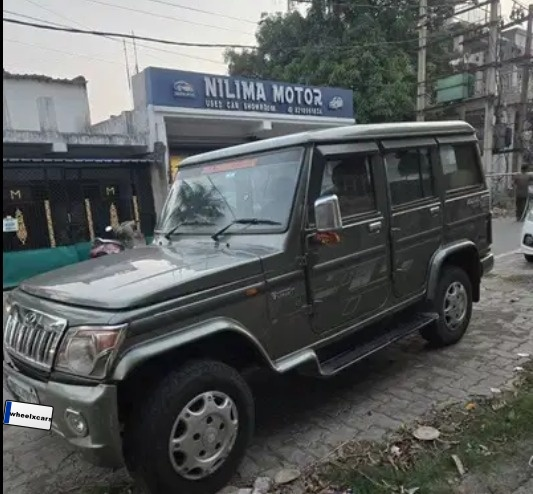
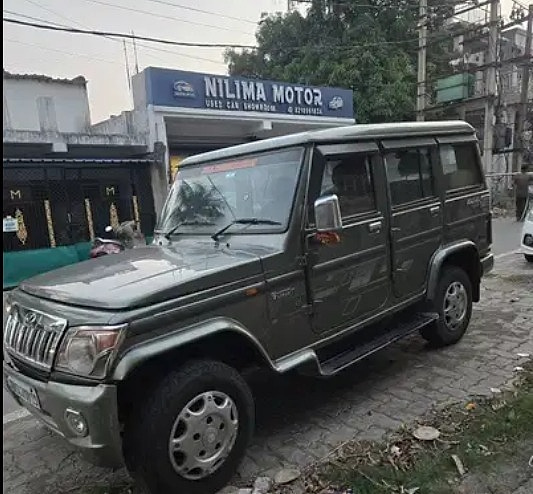
refactor: mobile car image framing, clean original Bolero photography, and replace numbers with trust pillars on hero
- Replaced numerical stats with clean trust & quality badges on Hero section
- Restored authentic original Bolero photography with subtle sharpening and removed wheelxcars plate text
- Optimized mobile car card image aspect ratio (aspect-[4/3] on mobile) ensuring full vehicle visibility without roof/wheel cropping

diff --git a/src/components/CarCard.tsx b/src/components/CarCard.tsx
@@ -26,18 +26,19 @@ export function CarCard({ car, index = 0, className }: CarCardProps) {
       )}
     >
       <Link href={`/cars/${car.slug}`} className="block flex flex-col h-full">
-        {/* Image container */}
-        <div className="relative aspect-[16/10] overflow-hidden bg-zinc-900">
+        {/* Responsive Image container - 4/3 on mobile to preserve full car height/wheels/roof, 16/10 on tablet/desktop */}
+        <div className="relative aspect-[4/3] sm:aspect-[16/10] overflow-hidden bg-[#141414]">
           <Image
             src={car.images[0]}
             alt={`${car.year} ${car.brand} ${car.model}`}
             fill
-            className="object-cover transition-transform duration-700 ease-out group-hover:scale-105"
-            sizes="(max-width: 768px) 100vw, (max-width: 1200px) 50vw, 33vw"
+            quality={95}
+            className="object-cover object-center transition-transform duration-700 ease-out group-hover:scale-105"
+            sizes="(max-width: 640px) 100vw, (max-width: 1024px) 50vw, 33vw"
             priority={index === 0}
           />
           {/* Gradient overlay */}
-          <div className="absolute inset-0 bg-gradient-to-t from-black/75 via-transparent to-black/20 opacity-60 group-hover:opacity-80 transition-opacity duration-300" />
+          <div className="absolute inset-0 bg-gradient-to-t from-black/75 via-transparent to-black/20 opacity-50 group-hover:opacity-75 transition-opacity duration-300" />
           
           {/* Top badges */}
           <div className="absolute top-3 left-3 right-3 flex items-center justify-between">
@@ -64,8 +65,8 @@ export function CarCard({ car, index = 0, className }: CarCardProps) {
             )}
           </div>
 
-          {/* Hover CTA */}
-          <div className="absolute bottom-3 right-3 opacity-0 group-hover:opacity-100 transition-all duration-300 translate-y-1 group-hover:translate-y-0">
+          {/* Hover CTA on desktop */}
+          <div className="hidden sm:flex absolute bottom-3 right-3 opacity-0 group-hover:opacity-100 transition-all duration-300 translate-y-1 group-hover:translate-y-0">
             <div className="bg-white text-black text-xs font-bold px-3 py-1.5 rounded-md flex items-center gap-1.5 shadow-xl">
               View Listing <ArrowRight size={11} />
             </div>
@@ -73,10 +74,10 @@ export function CarCard({ car, index = 0, className }: CarCardProps) {
         </div>
 
         {/* Card content */}
-        <div className="p-5 flex flex-col flex-1 justify-between gap-4">
+        <div className="p-4 sm:p-5 flex flex-col flex-1 justify-between gap-4">
           <div>
             <div className="flex items-start justify-between gap-2 mb-1">
-              <h3 className="text-lg font-bold text-white leading-snug group-hover:text-white/90 transition-colors">
+              <h3 className="text-base sm:text-lg font-bold text-white leading-snug group-hover:text-white/90 transition-colors">
                 {car.brand} {car.model}
               </h3>
             </div>
@@ -109,7 +110,7 @@ export function CarCard({ car, index = 0, className }: CarCardProps) {
               <p className="text-sm font-semibold text-white/40 uppercase tracking-wider text-[10px]">
                 Asking Price
               </p>
-              <p className="text-base font-bold text-white tracking-tight mt-0.5">
+              <p className="text-sm sm:text-base font-bold text-white tracking-tight mt-0.5">
                 {car.price ? formatPrice(car.price) : (car.priceText || "Price on Request")}
               </p>
             </div>

diff --git a/src/components/Hero.tsx b/src/components/Hero.tsx
@@ -4,7 +4,7 @@ import { useRef } from "react";
 import Image from "next/image";
 import Link from "next/link";
 import { motion, useScroll, useTransform } from "framer-motion";
-import { ArrowRight, ChevronDown } from "lucide-react";
+import { ArrowRight, ChevronDown, ShieldCheck, FileText, Sparkles } from "lucide-react";
 
 const containerVariants = {
   hidden: {},
@@ -140,21 +140,40 @@ export function Hero() {
             </Link>
           </motion.div>
 
-          {/* Stats row */}
+          {/* Value Highlights / Trust Markers (No numbers) */}
           <motion.div
             variants={itemVariants}
-            className="mt-14 pt-8 border-t border-white/10 flex items-center gap-8 sm:gap-12 flex-wrap"
+            className="mt-14 pt-8 border-t border-white/10 flex items-center gap-6 sm:gap-10 flex-wrap"
           >
-            {[
-              { number: "500+", label: "Cars Evaluated" },
-              { number: "100%", label: "Verified History" },
-              { number: "Under ₹10L", label: "Fair Pricing" },
-            ].map((stat) => (
-              <div key={stat.label} className="flex flex-col gap-1">
-                <span className="text-2xl font-bold text-white tracking-tight">{stat.number}</span>
-                <span className="text-xs text-white/40 font-medium uppercase tracking-wide">{stat.label}</span>
+            <div className="flex items-center gap-3">
+              <div className="w-8 h-8 rounded-lg bg-white/5 border border-white/10 flex items-center justify-center flex-shrink-0">
+                <ShieldCheck size={16} className="text-white" />
               </div>
-            ))}
+              <div className="flex flex-col">
+                <span className="text-xs font-bold text-white tracking-tight">Technical Inspection</span>
+                <span className="text-[11px] text-white/40 font-medium">Multi-Point Check</span>
+              </div>
+            </div>
+
+            <div className="flex items-center gap-3">
+              <div className="w-8 h-8 rounded-lg bg-white/5 border border-white/10 flex items-center justify-center flex-shrink-0">
+                <FileText size={15} className="text-white" />
+              </div>
+              <div className="flex flex-col">
+                <span className="text-xs font-bold text-white tracking-tight">Verified Records</span>
+                <span className="text-[11px] text-white/40 font-medium">Clear Ownership</span>
+              </div>
+            </div>
+
+            <div className="flex items-center gap-3">
+              <div className="w-8 h-8 rounded-lg bg-white/5 border border-white/10 flex items-center justify-center flex-shrink-0">
+                <Sparkles size={15} className="text-white" />
+              </div>
+              <div className="flex flex-col">
+                <span className="text-xs font-bold text-white tracking-tight">Direct Transfer</span>
+                <span className="text-[11px] text-white/40 font-medium">Hassle-Free Process</span>
+              </div>
+            </div>
           </motion.div>
         </motion.div>
       </div>

diff --git a/scripts/restore_original_bolero.js b/scripts/restore_original_bolero.js
@@ -1,0 +1,43 @@
+const sharp = require('sharp');
+const path = require('path');
+const fs = require('fs');
+
+const outputDir = path.join(__dirname, '..', 'public', 'cars', 'mahindra-bolero');
+if (!fs.existsSync(outputDir)) {
+  fs.mkdirSync(outputDir, { recursive: true });
+}
+
+async function restoreAndEnhanceImages() {
+  const images = [
+    {
+      src: 'C:/Users/nikhi/.gemini/antigravity/brain/1ecd2374-d5e0-40fc-bacb-085c140d770b/.user_uploaded/media_1787113533421.jpg',
+      dest: 'bolero-1.jpg',
+    },
+    {
+      src: 'C:/Users/nikhi/.gemini/antigravity/brain/1ecd2374-d5e0-40fc-bacb-085c140d770b/.user_uploaded/media_1787113533430.jpg',
+      dest: 'bolero-2.jpg',
+    },
+    {
+      src: 'C:/Users/nikhi/.gemini/antigravity/brain/1ecd2374-d5e0-40fc-bacb-085c140d770b/.user_uploaded/media_1787113533437.jpg',
+      dest: 'bolero-3.jpg',
+    },
+  ];
+
+  for (const img of images) {
+    // Subtle unsharp mask for crispness & clarity without artificial artifacts
+    await sharp(img.src)
+      .sharpen({ sigma: 0.8, m1: 1.0, m2: 1.5 })
+      .jpeg({
+        quality: 96,
+        chromaSubsampling: '4:4:4',
+        trellisQuantisation: true,
+        overshootDeringing: true,
+        mozjpeg: true,
+      })
+      .toFile(path.join(outputDir, img.dest));
+    
+    console.log(`Restored original and enhanced: ${img.dest}`);
+  }
+}
+
+restoreAndEnhanceImages().catch(console.error);

diff --git a/src/app/cars/[slug]/CarDetailClient.tsx b/src/app/cars/[slug]/CarDetailClient.tsx
@@ -201,7 +201,7 @@ export function CarDetailClient({ slug }: CarDetailClientProps) {
             <div>
               {/* Main image */}
               <div
-                className="relative aspect-[16/10] rounded-2xl overflow-hidden bg-zinc-900 mb-3 cursor-zoom-in group border border-white/8 shadow-2xl"
+                className="relative aspect-[4/3] sm:aspect-[16/10] rounded-2xl overflow-hidden bg-[#141414] mb-3 cursor-zoom-in group border border-white/8 shadow-2xl"
                 onClick={() => setLightboxOpen(true)}
               >
                 <AnimatePresence mode="wait">
@@ -217,8 +217,9 @@ export function CarDetailClient({ slug }: CarDetailClientProps) {
                       src={car.images[activeIndex]}
                       alt={`${car.brand} ${car.model} - Image ${activeIndex + 1}`}
                       fill
-                      className="object-cover"
+                      className="object-cover object-center"
                       priority
+                      quality={95}
                       sizes="(max-width: 1024px) 100vw, 70vw"
                     />
                   </motion.div>

diff --git a/src/components/NewArrivals.tsx b/src/components/NewArrivals.tsx
@@ -57,12 +57,13 @@ export function NewArrivals() {
           >
             <Link href={`/cars/${car.slug}`} className="group block">
               {/* Image */}
-              <div className="relative aspect-[4/3] rounded-xl overflow-hidden bg-zinc-900 mb-4 border border-white/8">
+              <div className="relative aspect-[4/3] rounded-xl overflow-hidden bg-[#141414] mb-4 border border-white/8">
                 <Image
                   src={car.images[0]}
                   alt={`${car.year} ${car.brand} ${car.model}`}
                   fill
-                  className="object-cover transition-transform duration-700 group-hover:scale-105"
+                  quality={95}
+                  className="object-cover object-center transition-transform duration-700 group-hover:scale-105"
                   sizes="320px"
                 />
                 <div className="absolute inset-0 bg-gradient-to-t from-black/60 to-transparent opacity-0 group-hover:opacity-100 transition-opacity duration-300" />
